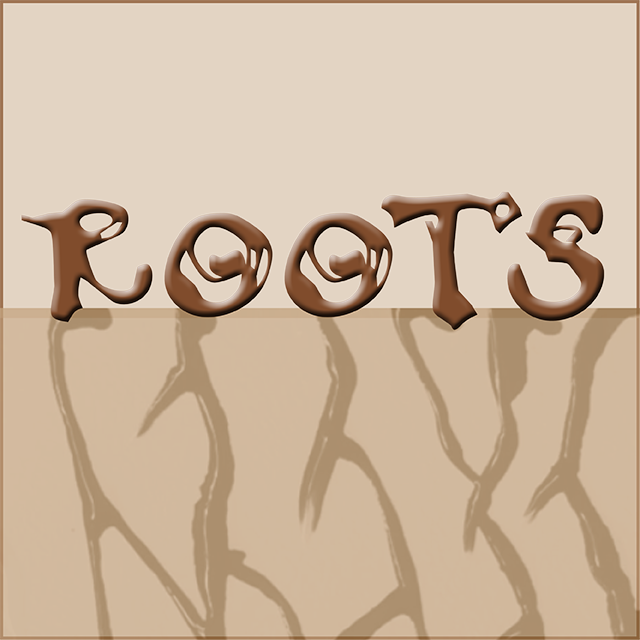
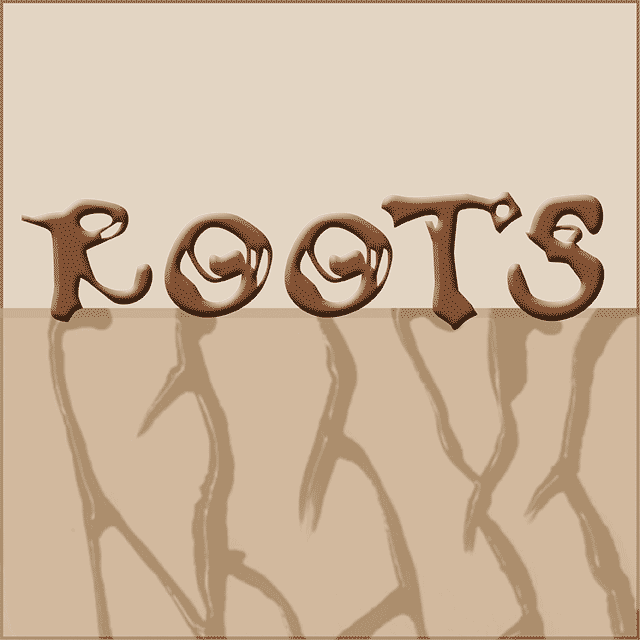
optimize large images

diff --git a/src/data/projects-2020SU.js b/src/data/projects-2020SU.js
@@ -5,7 +5,7 @@ export default [
     description:
       "A visual exploration of automobile dominance in Minneapolis with strategies to return power to pedestrians by way of graphic and urban design.",
     url: "https://cbretheim.github.io/Capstone/",
-    img: "img/magwd/2020SU/bretheim_power.png",
+    img: "img/magwd/2020SU/bretheim_power.jpg",
   },
   {
     by: "Annette Cliff",
@@ -19,7 +19,7 @@ export default [
     title: "The Mostly Untrue But Plausible History of Minneapolis",
     description: "Minneapolis tall tales experienced with augmented reality.",
     url: "https://austin1227.github.io/CapstonePage/",
-    img: "img/magwd/2020SU/gullixson_augmentedHistory.png",
+    img: "img/magwd/2020SU/gullixson_augmentedHistory.jpg",
   },
   {
     by: "Kelly Horigan",
@@ -27,7 +27,7 @@ export default [
     description:
       "A case study for .govs to adopt a web design system. Advocating for a National Center for Biotechnology Information Design System named Chromo.",
     url: "https://webdesignsystem.github.io/chromo",
-    img: "img/magwd/2020SU/horigan_chromo.jpg",
+    img: "img/magwd/2020SU/horigan_chromo.png",
   },
   {
     by: "Rachel Klimpel",

diff --git a/src/pages/MagwdPage.js b/src/pages/MagwdPage.js
@@ -9,7 +9,7 @@ const ProjectList = ({ name, projects }) => (
     <div className="container">
       <h2 className="project-list__title">{name}</h2>
       <div className="project-list__contents grid">
-        {projects.map(project => (
+        {projects.map((project) => (
           <Card key={project.by} {...project} />
         ))}
       </div>
@@ -19,7 +19,7 @@ const ProjectList = ({ name, projects }) => (
 
 const App = () => (
   <div className="magwd-app">
-    <AppHeader name="Graphic and Web Design" />
+    <AppHeader />
     <main className="main">
       <header className="page-header">
         <div className="container">
@@ -30,7 +30,7 @@ const App = () => (
         </div>
       </header>
       <div>
-        {terms.map(term => (
+        {terms.map((term) => (
           <ProjectList key={term.name} {...term} />
         ))}
       </div>

diff --git a/src/components/AppHeader.js b/src/components/AppHeader.js
@@ -2,4 +2,4 @@ import React from "react";
 
 import "./AppHeader.css";
 
-export default ({ name }) => <header className="app-header">MCAD</header>;
+export default () => <header className="app-header">MCAD</header>;
